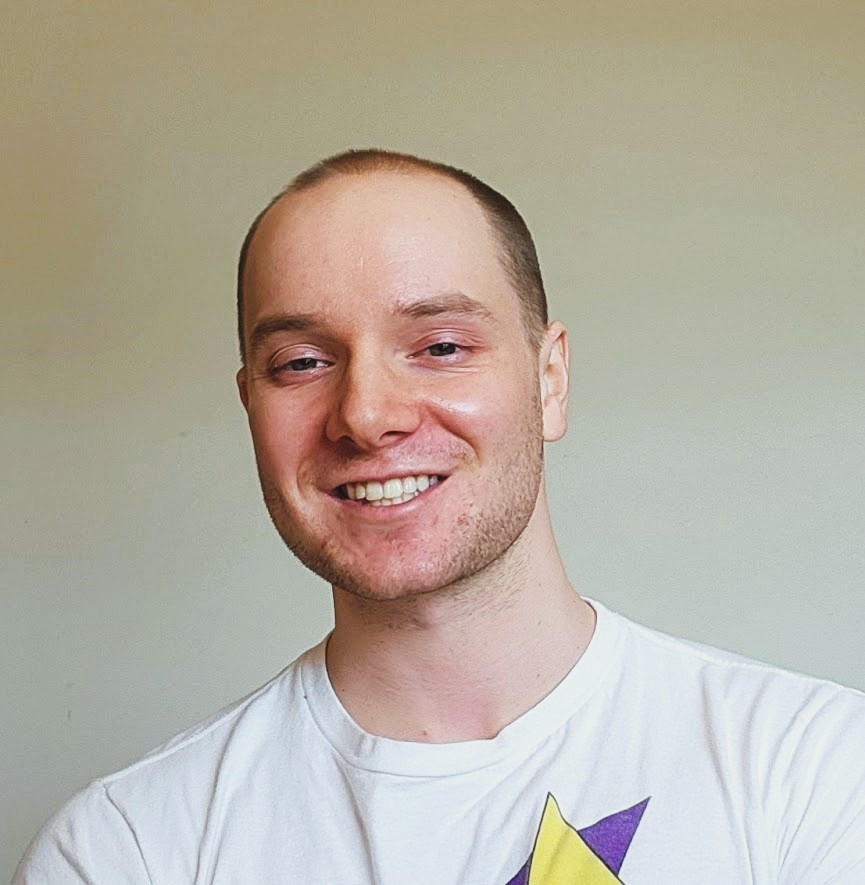
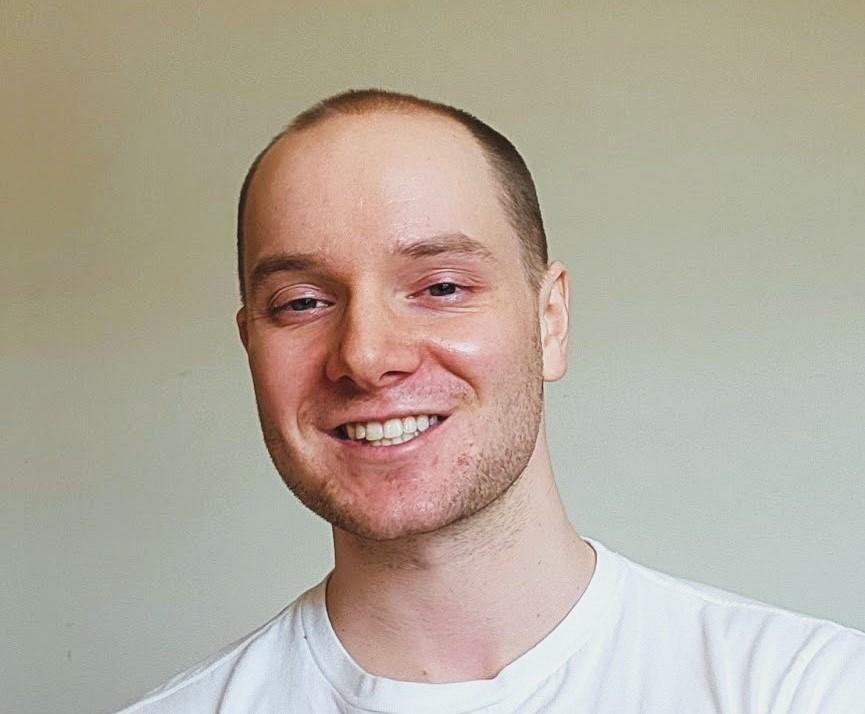
update about me; scroll

Changed region(s): [[0.0, 0.3081, 1.0, 1.0], [0.2809, 0.1232, 0.6243, 0.3389], [0.9052, 0.8936, 0.9364, 0.9552]]

diff --git a/client/src/App.jsx b/client/src/App.jsx
@@ -84,16 +84,37 @@ function App() {
 
         <div className='container-fluid'>
           <div className='row'>
-            <div className="col-5 offset-1 ">
+            <div className="col-5 offset-1">
               <img src="/images/newhs.jpg" id='simonPhoto' alt="simon photo" />
             </div>
-            <div className="col-4 offset-1 ">
+            <div className="col-5">
               <h2>NICE TO MEET YOU</h2>
-              <p>Lorem ipsum dolor sit amet, consectetur adipiscing elit, sed do eiusmod
-                tempor incididunt ut labore et dolore magna aliqua. Ut enim ad minim veniam,
-                quis nostrud exercitation ullamco laboris nisi ut aliquip ex ea commodo consequat.
-                Duis aute irure dolor in reprehenderit in. Lorem ipsum dolor sit amet, consectetur
-                adipiscing elit, sed do eiusmod tempor incididunt ut labore et dolore magna aliqua. </p>
+              <div className='scrollable'>
+              <p className='my-3'>I’m a full-stack software developer from Minneapolis, Minnesota.
+                I’ve lived here for most of my life - but I did have a stint in beautiful Des Moines,
+                Iowa where I obtained my bachelor’s degree from Drake University, and afterwards worked
+                for the State’s Racing and Gaming Commission regulating the exciting, online sports
+                betting industry. After four years in the industry, I made the decision to pursue a
+                career that would nurture my passion for creative problem solving; one that would allow
+                me to acquire a valuable and interesting skill that I could continue to build upon and
+                explore throughout my entire career.
+              </p>
+              <p className='mb-3'>
+                That’s how I ended up here. I now create full-stack CRUD applications using python,
+                javascript, C#, React, MySQL, MongoDB, .NET, Entity, and much, much more. I also like to
+                keep my coding brain fresh by mixing in some game development, using Unity and Godot
+              </p>
+              <p className='mb-3'>
+                When I’m not coding, I love to stay active, whether that be lifting weights, swimming,
+                hiking, or climbing the occasional tree. I’m a creative problem solver in the kitchen too -
+                to the delight or detriment of my friends and family depending on the day - I’ve recently
+                been obsessed with Mediterranean food. I also enjoy connecting with my out of state friends
+                on discord to chat and game together.
+              </p>
+              <p>
+                Want to know even more about me!? Email me or connect with me on Linkedin :)
+              </p>
+              </div>
             </div>
           </div>
         </div>

diff --git a/client/src/index.css b/client/src/index.css
@@ -140,5 +140,10 @@ img {
 /* ----------- about me section -------------- */
 
 #simonPhoto{
-  width: 100%;
+  width: 65vh;
+}
+
+.scrollable{
+  height: 50vh;
+  overflow-y: scroll;
 }
